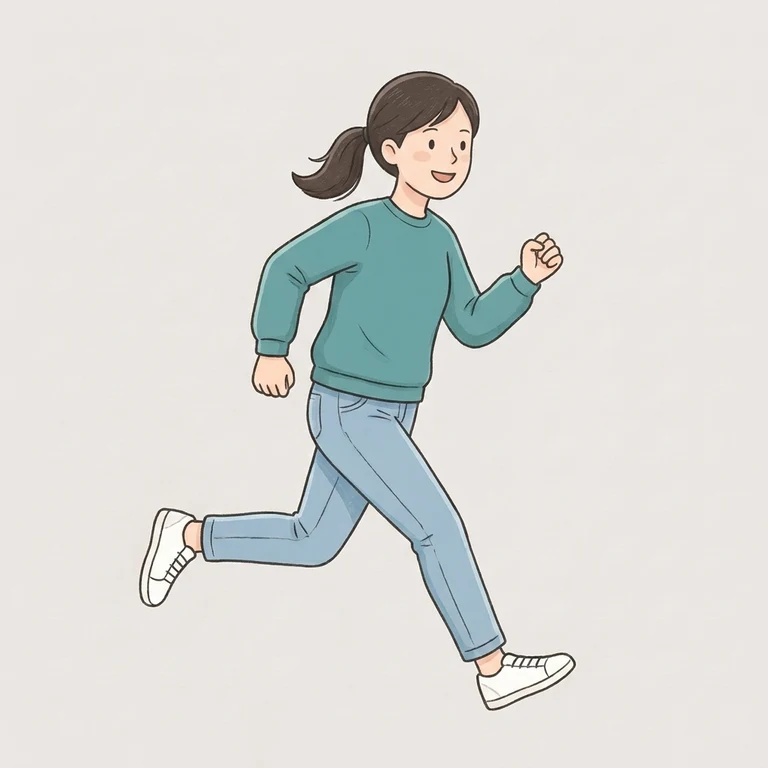
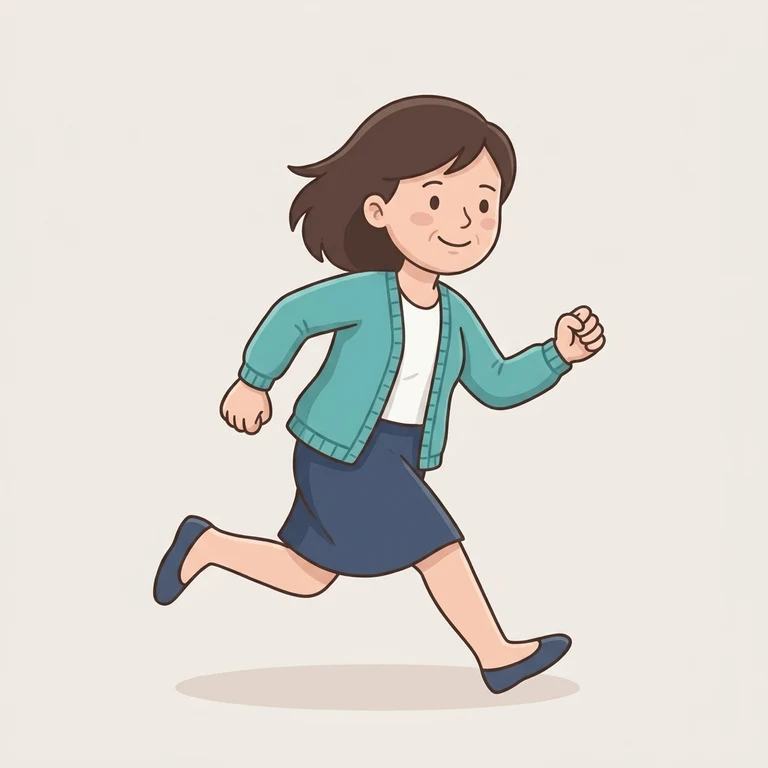
verbs_v2: new mom for «бежит» (owner picked variant 1)
Claude-Session: https://claude.ai/code/session_015V4M7eSRfKX8ByLswUXXjz

Changed region(s): [[0.1562, 0.0938, 0.8125, 0.9375], [0.4688, 0.8438, 0.5, 0.875], [0.375, 0.8438, 0.4062, 0.875]]

diff --git a/docs/verbs-wave4-shotlist.md b/docs/verbs-wave4-shotlist.md
@@ -141,10 +141,10 @@ id карточек сохраняются (статистика не теряе
 
 ## 6. Статус (2026-10-19)
 
-- **Генерация C готова и принята автором** (страница ревизии с кнопками, 37 из 37 «Отлично»
+- **Генерация C готова и принята автором** (страница ревизии с кнопками, 38 из 38 «Отлично»
   после одной переделки). Эталон мамы — вариант B (`ref_mom2.webp`; PNG для `gen.py` делается из него, `*.png` в git не попадают; варианты
   `ref_mom2_a…d.webp` оставлены для истории). В `generated/` лежат новые `c_*_mom.webp` для
-  всех 28 глаголов и `c_*_boy.webp` для 9 глаголов волны 4. В `deck.json` ещё не подключены.
+  всех 29 глаголов (20 старых + 9 волны 4; «бежит» догенерирован отдельно, вариант 1) и `c_*_boy.webp` для 9 глаголов волны 4. В `deck.json` ещё не подключены.
 - Подводные камни генерации: пример «same chair, same sink, same table» в промпте заставлял
   модель дорисовывать раковину и мебель — промпт теперь велит брать только предметы из кадра
   мальчика и жёстко задаёт одежду и причёску; «плавает» — исключение (купальник). «Лежит»
